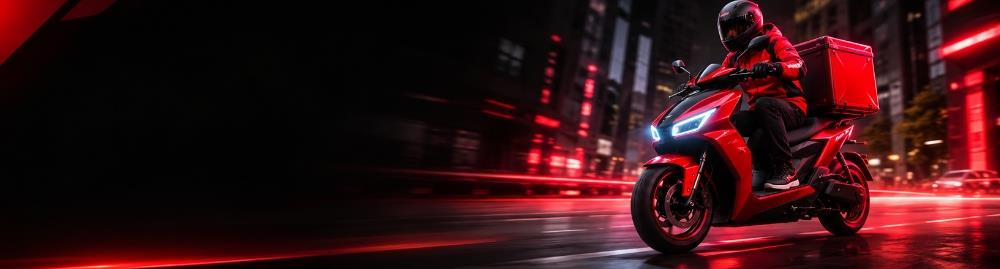
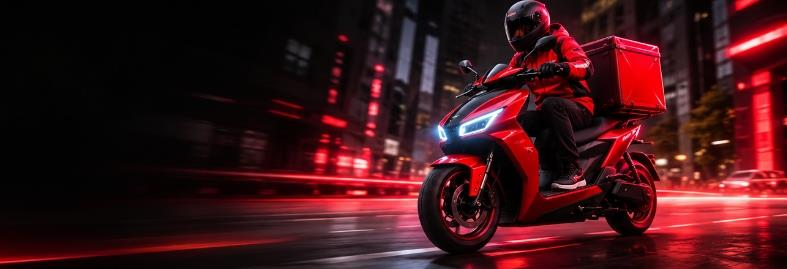
feat: add home screen and scooter service asset

diff --git a/front/apps/client/app/(tabs)/home.tsx b/front/apps/client/app/(tabs)/home.tsx
@@ -40,6 +40,7 @@ const primaryServices = [
     background: '#351417',
     tag: "M'Saken & Messaadine",
     image: require('../../assets/services/service-scooter.jpg'),
+    featured: true,
   },
   {
     title: 'REDGO FOOD',
@@ -50,6 +51,7 @@ const primaryServices = [
     background: '#342118',
     tag: 'Menus variés',
     image: require('../../assets/services/service-food.jpg'),
+    featured: false,
   },
   {
     title: 'COURSES REDGO',
@@ -60,6 +62,7 @@ const primaryServices = [
     background: '#1A2922',
     tag: 'Prix fixes',
     image: require('../../assets/services/service-courses.jpg'),
+    featured: false,
   },
 ];
 
@@ -280,6 +283,7 @@ export default function Home() {
             key={service.title}
             style={({ pressed }) => [
               styles.serviceCard,
+              service.featured && styles.serviceCardFeatured,
               { backgroundColor: service.background },
               pressed && { opacity: 0.9 },
             ]}
@@ -289,8 +293,14 @@ export default function Home() {
               source={service.image}
               style={StyleSheet.absoluteFill}
               contentFit="cover"
+              contentPosition={service.featured ? { left: '35%', top: '50%' } : 'center'}
             />
-            <View style={styles.serviceOverlay} />
+            <View
+              style={[
+                styles.serviceOverlay,
+                service.featured && styles.serviceOverlayLight,
+              ]}
+            />
             <View style={styles.serviceTop}>
               <View style={styles.serviceIcon}>
                 <Ionicons name={service.icon} size={24} color="#FFFFFF" />
@@ -689,8 +699,12 @@ const styles = StyleSheet.create({
     borderColor: 'rgba(255, 255, 255, 0.1)',
     overflow: 'hidden',
     position: 'relative',
-    minHeight: 152,
+    minHeight: 146,
     justifyContent: 'space-between',
+  },
+  serviceCardFeatured: {
+    minHeight: 196,
+    borderColor: 'rgba(255, 32, 42, 0.35)',
   },
   serviceOverlay: {
     position: 'absolute',
@@ -699,6 +713,9 @@ const styles = StyleSheet.create({
     right: 0,
     bottom: 0,
     backgroundColor: 'rgba(9, 9, 9, 0.42)',
+  },
+  serviceOverlayLight: {
+    backgroundColor: 'rgba(9, 9, 9, 0.24)',
   },
   serviceTop: {
     flexDirection: 'row',
